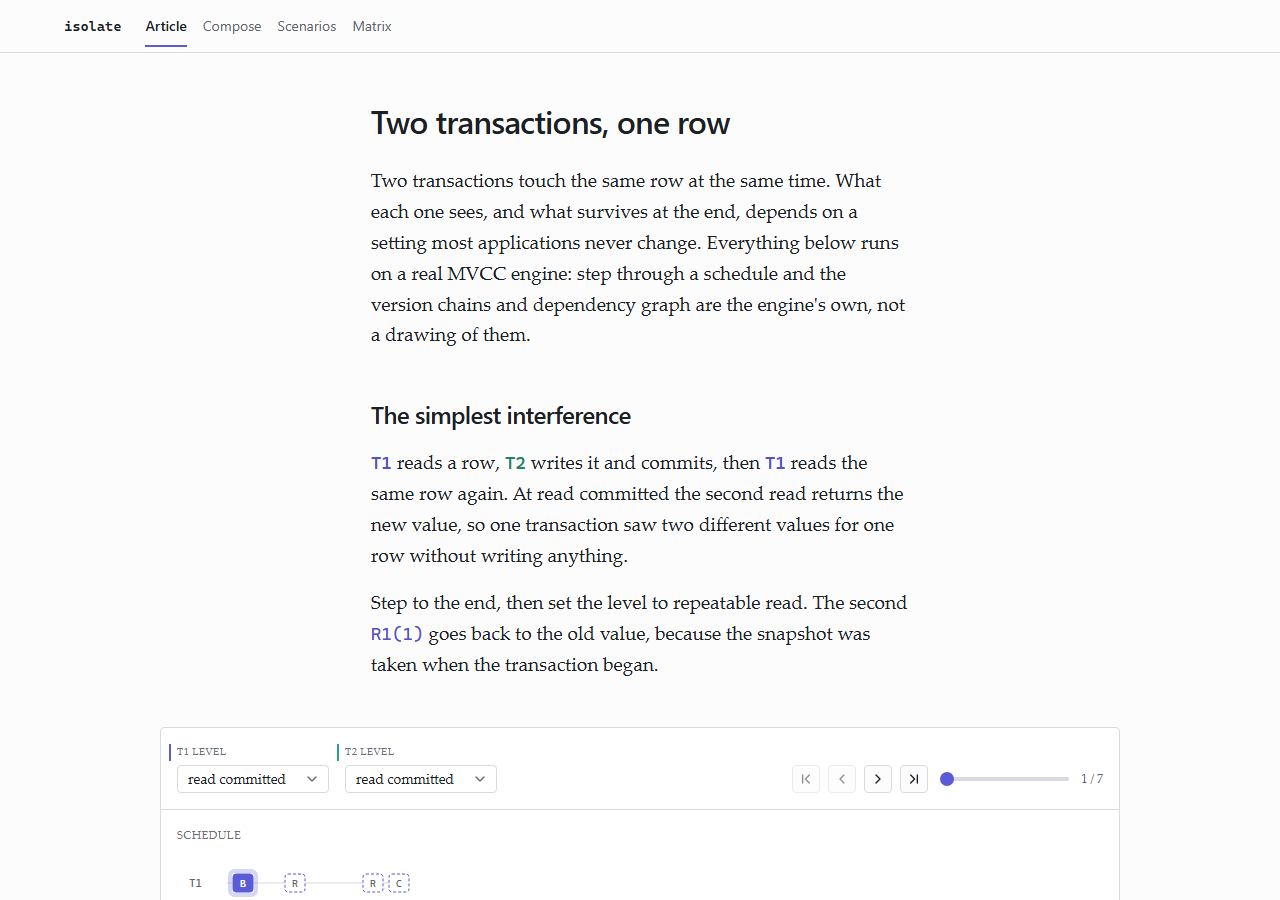
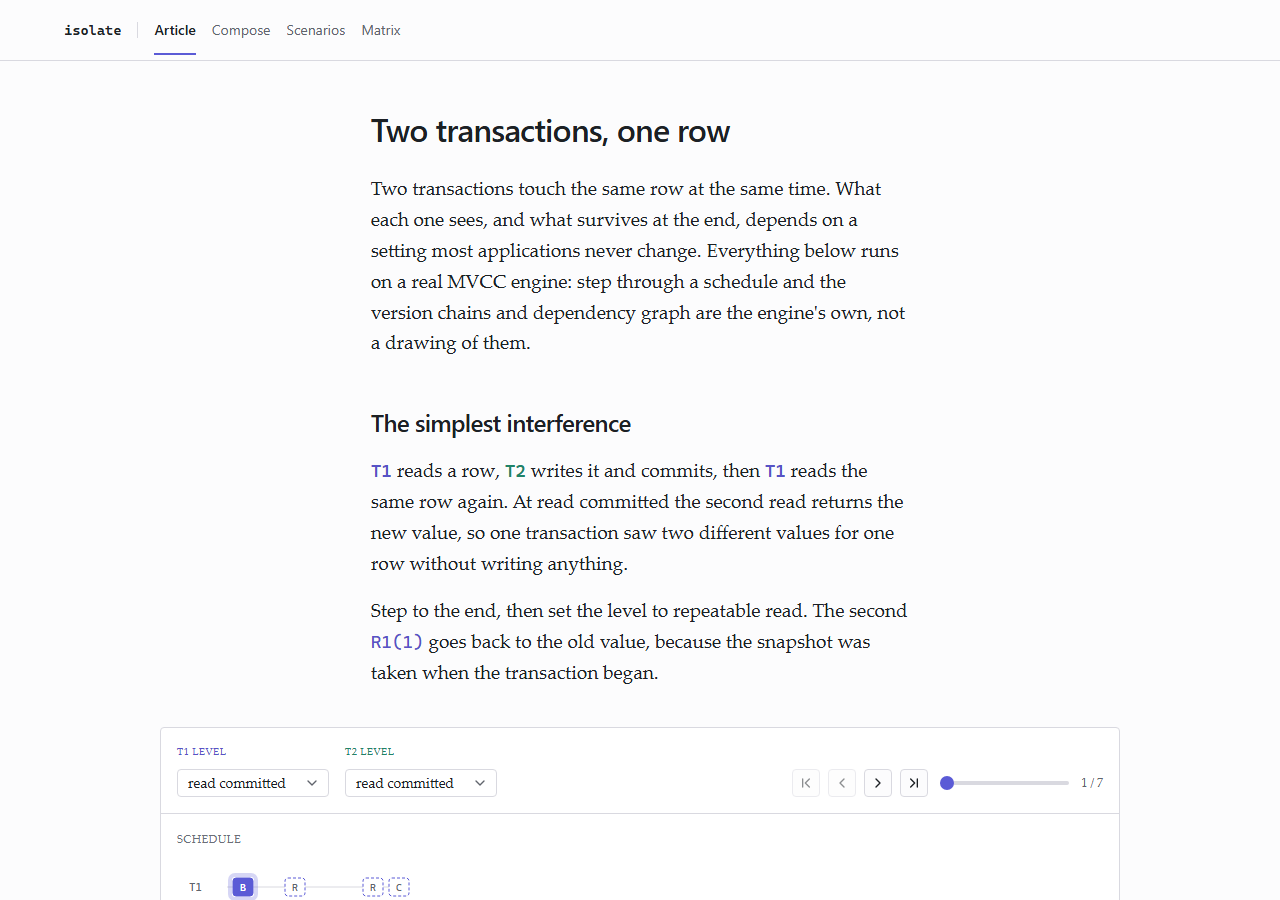
docs: readme matches what the code does
the badge claimed 65 audit checks against an actual 75. the stack notes
repeated the disproved react flow claim. base ui was missing from the
table, the checks section never mentioned the unit suite, and nothing
said the engine's cors allowlist names port 3000, which blocks a
frontend served anywhere else in the browser while curl still works.

screenshots recaptured from a production build, including the
serializable one that now shows T2's rolled back write as dead.

diff --git a/README.md b/README.md
@@ -5,7 +5,7 @@
 <p align="center">
   <img src="https://img.shields.io/badge/Hermitage-10%20anomalies-5b5bd6" alt="Hermitage, 10 anomalies">
   <img src="https://img.shields.io/badge/oracles-PostgreSQL%2018.4-29a383" alt="Checked against PostgreSQL 18.4">
-  <img src="https://img.shields.io/badge/tests-204%20engine%20%2B%2065%20audit-1c2024" alt="204 engine tests and 65 audit checks">
+  <img src="https://img.shields.io/badge/tests-204%20engine%20%2B%2075%20audit-1c2024" alt="204 engine tests and 75 audit checks">
   <img src="https://img.shields.io/badge/TypeScript-strict-3178c6" alt="TypeScript strict">
 </p>
 
@@ -41,7 +41,7 @@ database inconsistent. At serializable the engine detects the pivot and aborts i
 PostgreSQL actually raises.
 
 <p align="center">
-  <img src="frontend/public/readme/serializable.png" width="880" alt="The same G2-item schedule at serializable. The step line reads: T2 commit, aborted, could not serialize access due to read/write dependencies among transactions. Key 2 now stays live at 20 with no dead row. The graph greys T2 out with its label struck through and the cycle is gone. Outcome reads Committed T1, Aborted T2, Anomalies none, Final 1 => 11, 2 => 20.">
+  <img src="frontend/public/readme/serializable.png" width="880" alt="The same G2-item schedule at serializable. The step line reads: T2 commit, aborted, could not serialize access due to read/write dependencies among transactions. Key 2 now stays live at 20, and T2's write of 21 is struck through as dead because its transaction rolled back. The graph greys T2 out with its label struck through and the cycle is gone. Outcome reads Committed T1, Aborted T2, Anomalies none, Final 1 => 11, 2 => 20.">
 </p>
 
 **Every cell of the published matrix, computed live.** Seven engine and level combinations against
@@ -80,18 +80,20 @@ and step index, and the control is always a button the reader presses.
 | Engine API | FastAPI on uvicorn. Runs a schedule and returns every step |
 | SQL | sqlglot, parsing the supported subset into operations |
 | Frontend | Next.js 16 on React 19, TypeScript strict |
+| Components | Base UI primitives, styled locally |
 | Graph layout | dagre |
 | Version chains | TanStack Table |
 | Icons | lucide-react |
-| Checks | pytest and hypothesis on the engine, Playwright and axe on the UI |
+| Checks | pytest and hypothesis on the engine, Vitest, Playwright and axe on the UI |
 
 ## Notes on the stack
 
-**The timeline and the graph are hand written SVG, and the layout is not.** React Flow 12.10 and
-12.11 both render zero edges on React 19.2: its own two node example from the docs produces correct
-nodes, a correct store, and an empty edge layer. Rather than pin React back, the graph draws its own
-edges. dagre still owns every coordinate, because a layout algorithm is exactly the kind of thing
-that should not be hand rolled.
+**The timeline and the graph are hand written SVG, and the layout is not.** React Flow draws edges
+only between nodes it has measured, and a custom node type never reports its dimensions on React
+19.2, so the nodes stay hidden and the edge layer comes up empty. Every node here carries a
+transaction hue and a cycle ring, so a custom type is not optional. Rather than pin React back, the
+graph draws its own edges. dagre still owns every coordinate, because a layout algorithm is exactly
+the kind of thing that should not be hand rolled.
 
 **Write-write conflicts block rather than error.** A blocked transaction queues and its later
 statements wait, which is what a real engine does and what every Hermitage schedule assumes. Without
@@ -127,6 +129,9 @@ Then the frontend, in a second terminal:
 The frontend reads `NEXT_PUBLIC_ENGINE_URL` and falls back to `http://127.0.0.1:8000`. Set it in
 `frontend/.env.local` if the engine runs anywhere else.
 
+Keep the frontend on port 3000. The engine's CORS allowlist names that origin, so a frontend served
+anywhere else is blocked in the browser while every request still succeeds from the terminal.
+
 ## Layout
 
     engine/     MVCC store, isolation levels, dependency graph, anomaly detection, FastAPI
@@ -139,11 +144,17 @@ Engine, 204 tests including the Hermitage goldens and hypothesis generated sched
     cd engine
     uv run pytest
 
-Frontend. The audit runs every route at 1440 and 375, and fails on nested containers, offscreen
-elements, hover styles on things that cannot be clicked, missing pointer cursors, sideways scroll,
-axe violations, and computed WCAG contrast in both themes:
+Frontend, 51 unit and component tests:
 
     cd frontend
     npm run typecheck
     npm run lint
+    npm run test
+
+Then the browser suite, 96 checks against a running engine. The audit walks every route at 1440 and
+375 and fails on nested containers, offscreen elements, hover styles on things that cannot be
+clicked, missing pointer cursors, sideways scroll, axe violations, and computed WCAG contrast in
+both themes. The rest drive the controls with a real pointer, because a control that renders
+correctly and does nothing looks identical in a screenshot:
+
     npm run test:e2e
